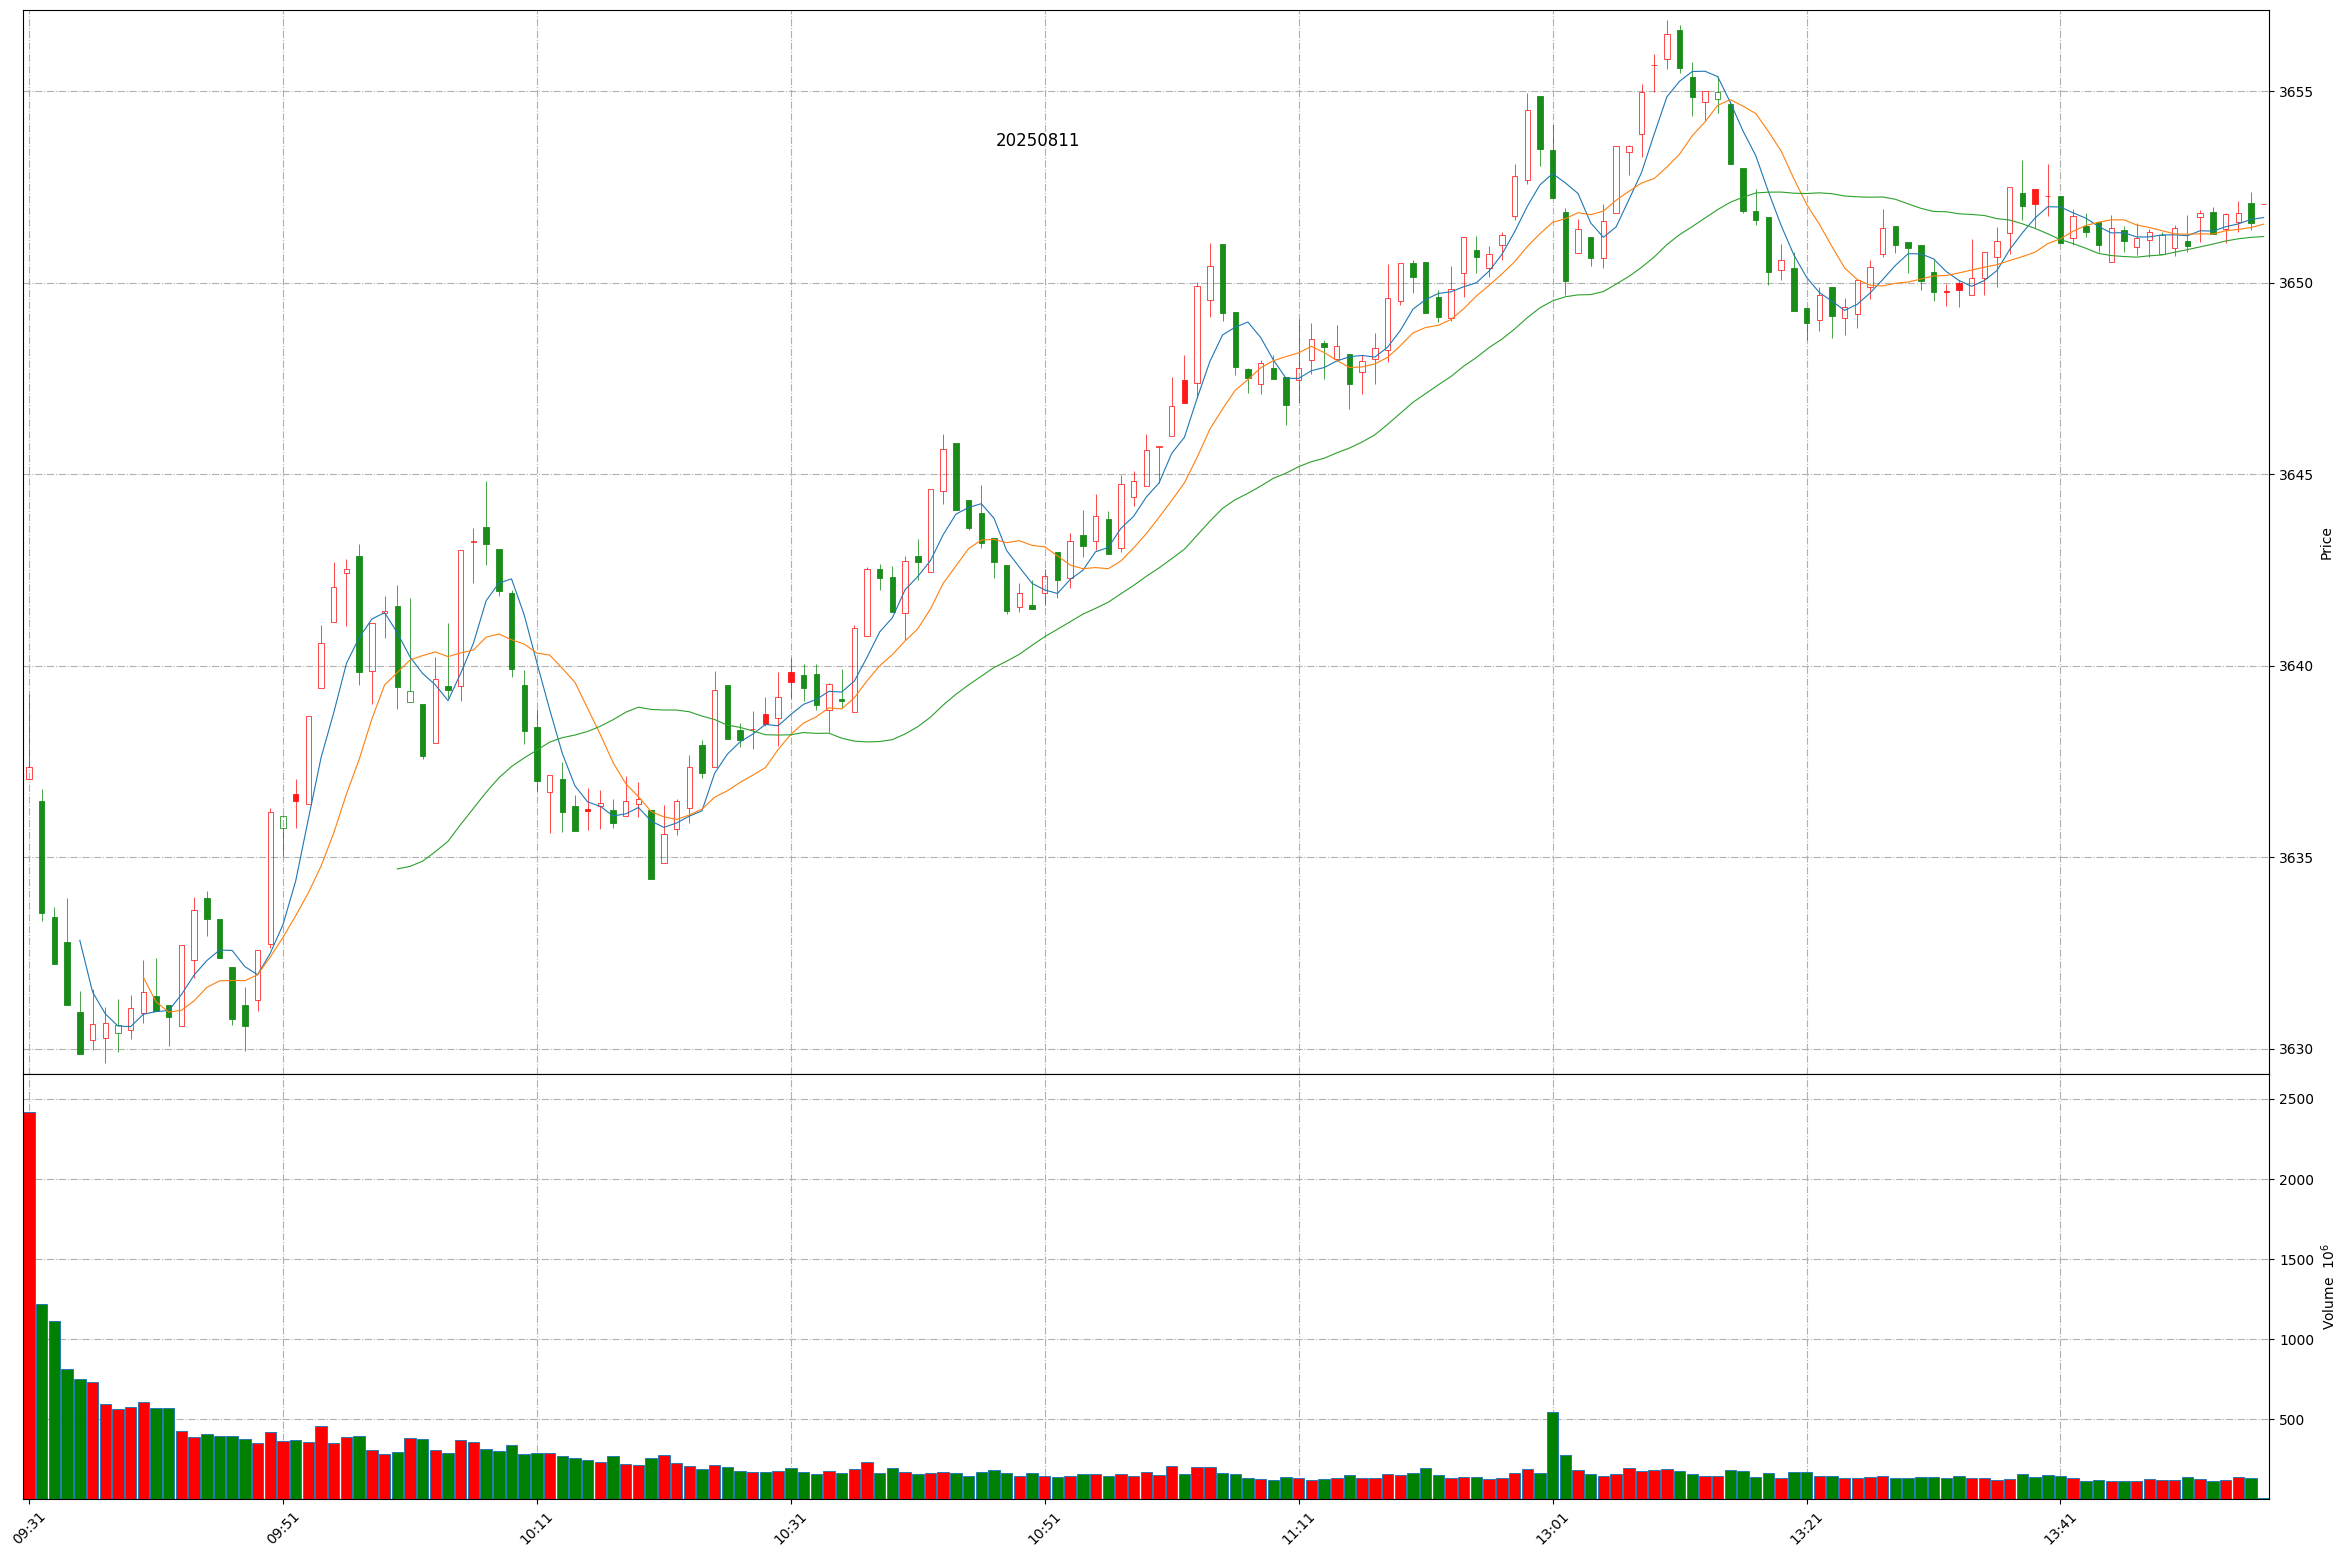
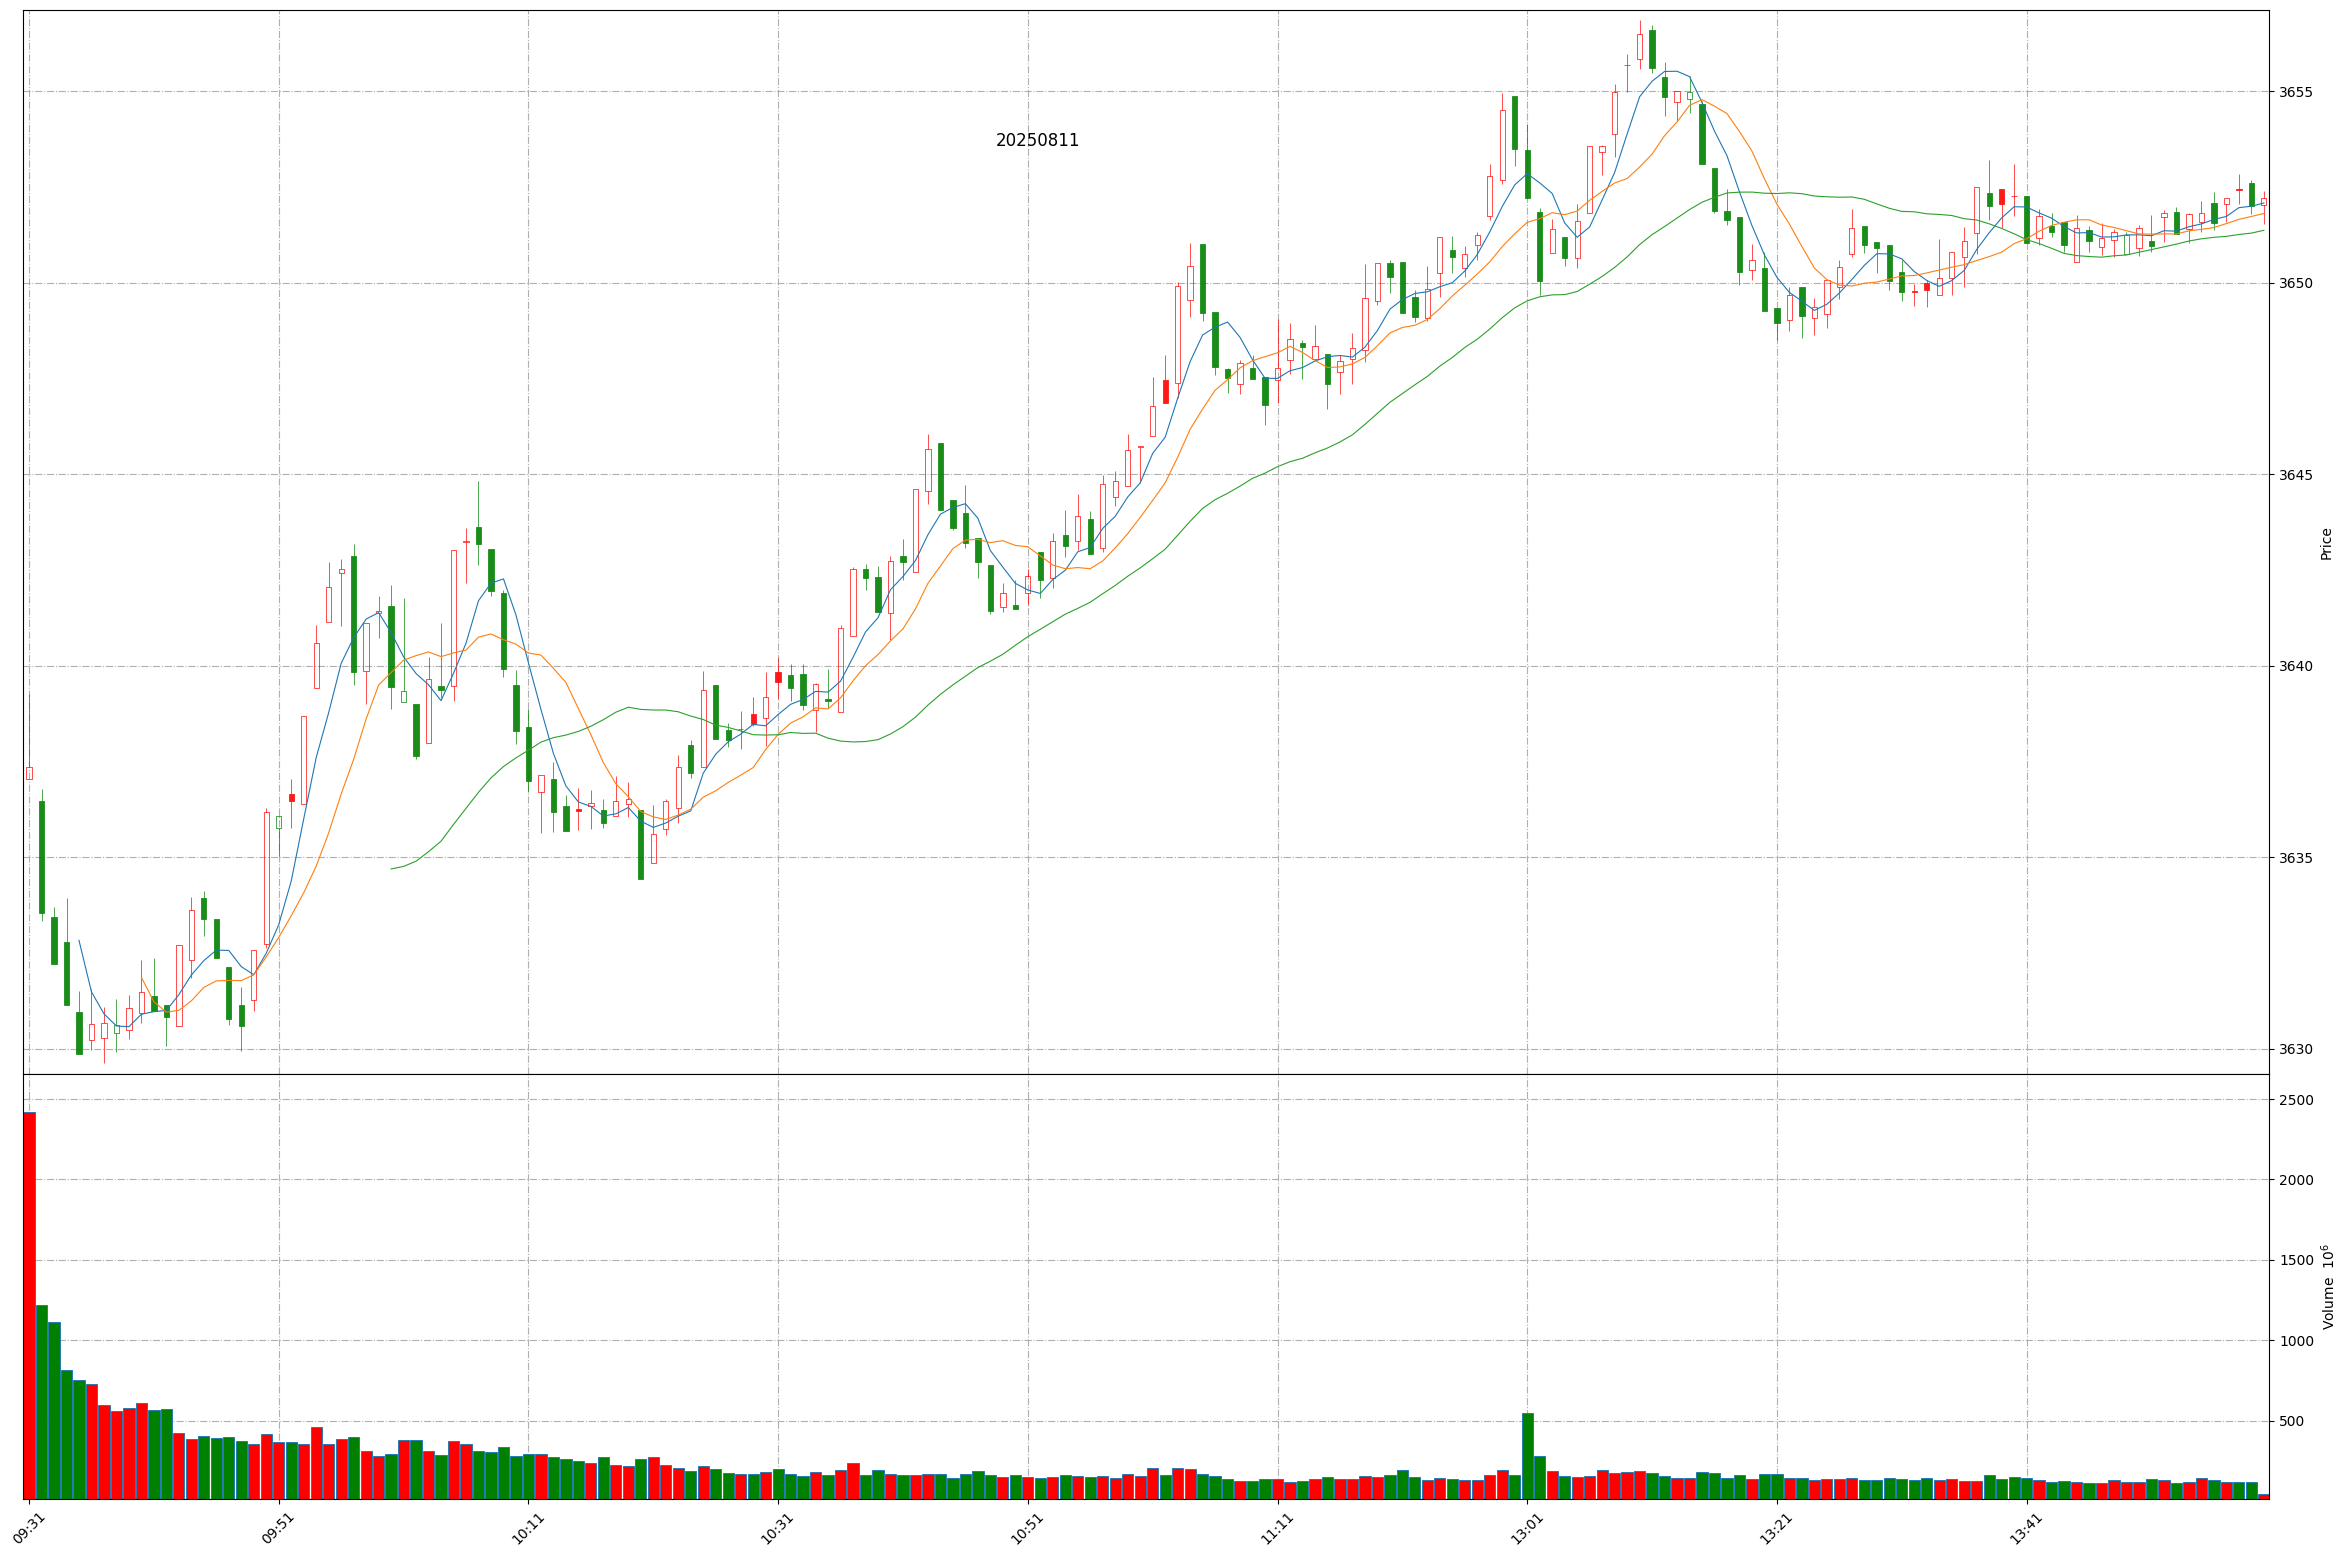
Github action update at 2025-08-11 13:59:33.

diff --git a/README.md b/README.md
@@ -1,11 +1,11 @@
 
 # Daily-A-share-market-quotes 每日 A 股指数（5min 更新）- 20250811
 
-### 上证指数 20250811 13:56
+### 上证指数 20250811 13:59
 ![](./fig/2025/8/20250811-sh000001.png)
 
-### 深证成指 20250811 13:56
+### 深证成指 20250811 13:59
 ![](./fig/2025/8/20250811-sz399001.png)
 
-### 北证50 20250811 13:56
+### 北证50 20250811 13:59
 ![](./fig/2025/8/20250811-bj899050.png)
